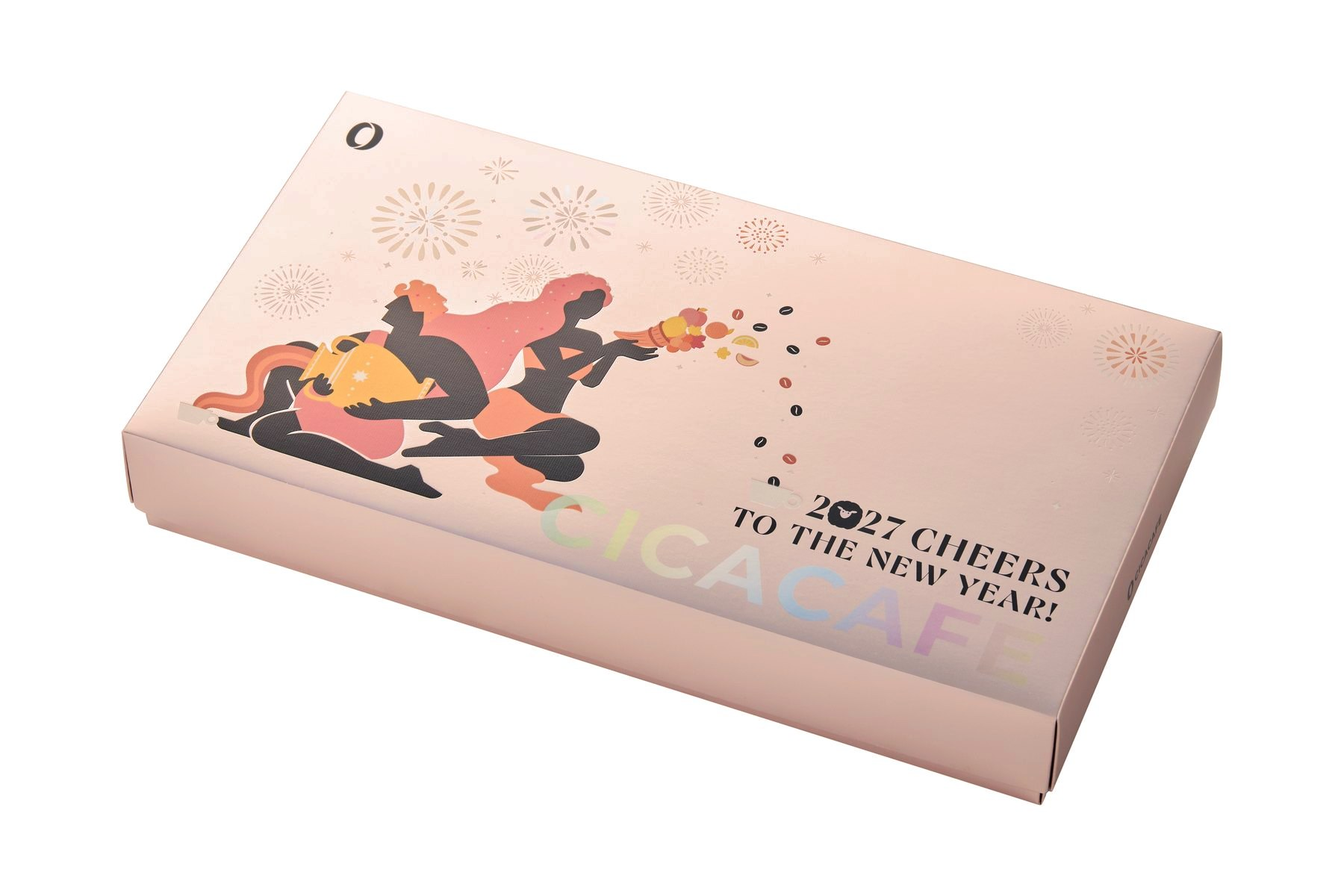
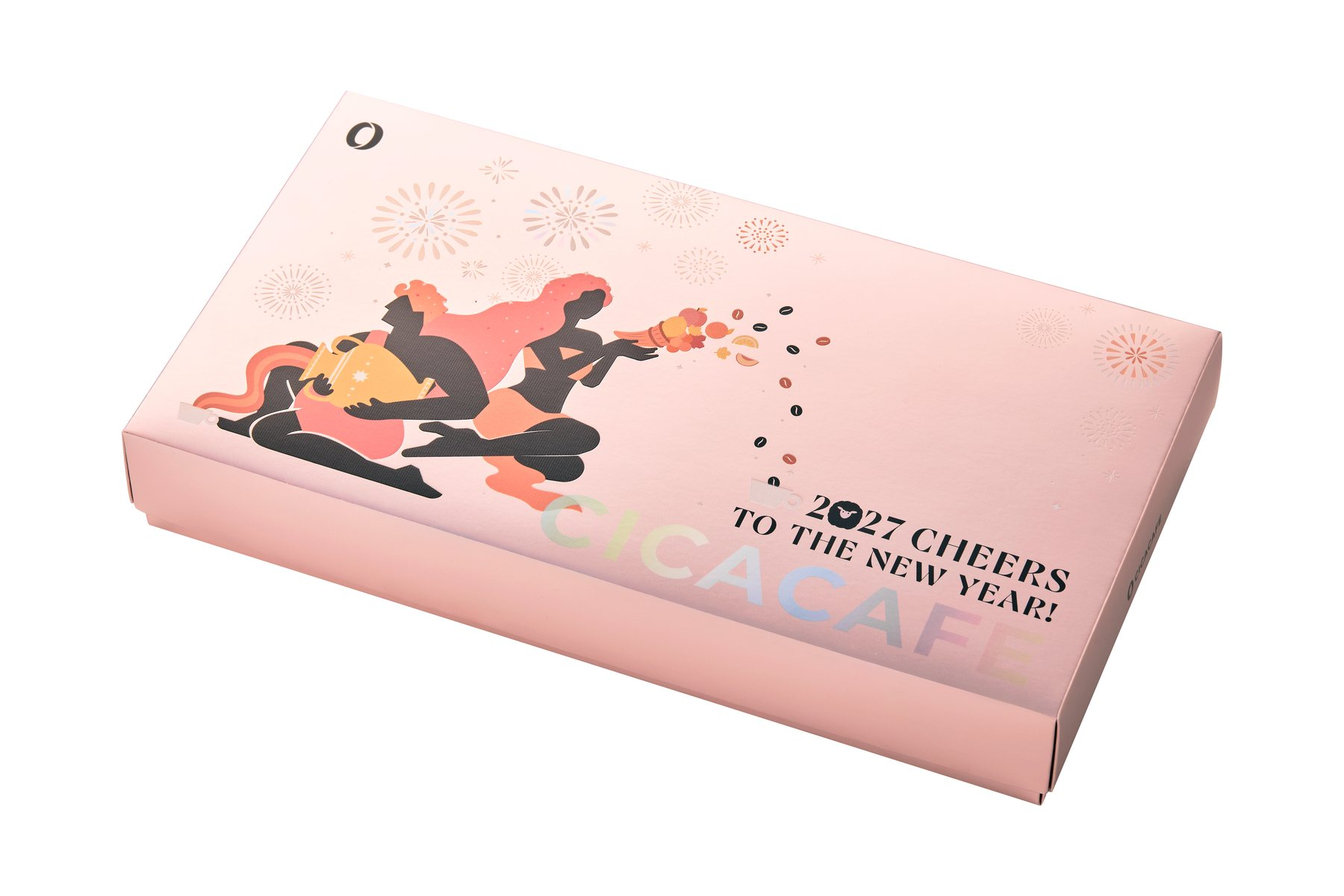
過年禮盒推薦：加入 Blueseeds、本站品牌標示、同業 nofollow、修正排版；過年頁照片換校色版

diff --git a/guide/lunar-new-year-gift-guide/index.html b/guide/lunar-new-year-gift-guide/index.html
@@ -15,15 +15,15 @@ CICACAFE ／ 選購指南：2027 過年禮盒推薦（通論清單文）
 <meta charset="utf-8">
 <meta name="viewport" content="width=device-width, initial-scale=1">
 
-<title>2027 過年禮盒推薦：送長輩、客戶、同事怎麼挑｜25 款＋各家最後訂購日｜CICACAFE</title>
-<meta name="description" content="2027 過年禮盒怎麼挑？依送長輩、送客戶、送同事、不吃甜的人、圍爐加菜五種情境，整理 25 款糕點、茶、咖啡、香氛、肉乾海味禮盒的價格與內容，附預算速查表與各家最後訂購日總表，每週更新。">
+<title>2027 過年禮盒推薦：送長輩、客戶、同事怎麼挑｜26 款＋各家最後訂購日｜CICACAFE</title>
+<meta name="description" content="2027 過年禮盒怎麼挑？依送長輩、送客戶、送同事、不吃甜的人、圍爐加菜五種情境，整理 26 款糕點、茶、咖啡、香氛、肉乾海味禮盒的價格與內容，附預算速查表與各家最後訂購日總表，每週更新。">
 <link rel="canonical" href="https://www.cicacafe.com.tw/guide/lunar-new-year-gift-guide/">
 
 <meta property="og:type" content="article">
 <meta property="og:site_name" content="CICACAFE">
 <meta property="og:locale" content="zh_TW">
-<meta property="og:title" content="2027 過年禮盒推薦：送長輩、客戶、同事怎麼挑｜25 款＋各家最後訂購日">
-<meta property="og:description" content="2027 過年禮盒怎麼挑？依送長輩、送客戶、送同事、不吃甜的人、圍爐加菜五種情境，整理 25 款糕點、茶、咖啡、香氛、肉乾海味禮盒的價格與內容，附預算速查表與各家最後訂購日總表，每週更新。">
+<meta property="og:title" content="2027 過年禮盒推薦：送長輩、客戶、同事怎麼挑｜26 款＋各家最後訂購日">
+<meta property="og:description" content="2027 過年禮盒怎麼挑？依送長輩、送客戶、送同事、不吃甜的人、圍爐加菜五種情境，整理 26 款糕點、茶、咖啡、香氛、肉乾海味禮盒的價格與內容，附預算速查表與各家最後訂購日總表，每週更新。">
 <meta property="og:url" content="https://www.cicacafe.com.tw/guide/lunar-new-year-gift-guide/">
 <meta property="og:image" content="https://www.cicacafe.com.tw/gift/lunar-new-year/img/cicacafe-2027-lunar-new-year-coffee-gift-box-og.jpg">
 <meta name="twitter:card" content="summary_large_image">
@@ -277,7 +277,7 @@ html{scrollbar-gutter:stable}
     <p class="answer">
       過年禮盒先看<b>送誰</b>：送長輩常選中式糕點或養生滋補，送客戶常選保存期長的茶禮，送同事選好分享的餅乾蛋捲，不吃甜的人可改送咖啡、香氛或保養品。
       再看<b>時間</b>：2027 年除夕是 2 月 5 日，<b>建議 1 月 20 日前下單</b>。
-      本文整理 25 款禮盒的官網價格與內容，附各家最後訂購日總表，每週更新。
+      本文整理 26 款禮盒的官網價格與內容，附各家最後訂購日總表，每週更新。
     </p>
     <div class="byline">
       <span>CICACAFE 編輯部</span>
@@ -289,25 +289,25 @@ html{scrollbar-gutter:stable}
 
   <nav class="toc" aria-label="目錄">
     <h2>本文重點</h2>
-    <ol><li><a href="#quick">先看速查表：送誰 × 預算</a></li><li><a href="#deadline">2027 各家最後訂購日總表</a></li><li><a href="#elder">送長輩</a></li><li><a href="#client">送客戶、企業大宗</a></li><li><a href="#friends">送同事、朋友</a></li><li><a href="#healthy">不吃甜、不吃肉、想送健康的人</a></li><li><a href="#feast">圍爐加菜</a></li><li><a href="#howto">過年送禮怎麼挑：四個提醒</a></li><li><a href="#faq">常見問題</a></li><li><a href="#about-data">我們怎麼挑這 25 款</a></li></ol>
+    <ol><li><a href="#quick">先看速查表：送誰 × 預算</a></li><li><a href="#deadline">2027 各家最後訂購日總表</a></li><li><a href="#elder">送長輩</a></li><li><a href="#client">送客戶、企業大宗</a></li><li><a href="#friends">送同事、朋友</a></li><li><a href="#healthy">不吃甜、不吃肉、想送健康的人</a></li><li><a href="#feast">圍爐加菜</a></li><li><a href="#howto">過年送禮怎麼挑：四個提醒</a></li><li><a href="#faq">常見問題</a></li><li><a href="#about-data">我們怎麼挑這 26 款</a></li></ol>
   </nav>
 
   <article>
-<section id="quick"><h2>先看速查表：送誰 × 預算</h2><p class="lead">先決定送誰、預算多少，再往下看對應的段落。價格為各品牌官網 2026 年 11 月 5 日標示價，單位新台幣，實際以官網為準。</p><div class="tablewrap"><table class="quick"><thead><tr><th>送誰</th><th>NT$1,000 以下</th><th>NT$1,000–2,000</th><th>NT$2,000 以上</th></tr></thead><tbody><tr><th scope="row"><a href="#elder">送長輩</a></th><td>聖保羅 593、微熱山丘 550、紅布朗 759、喜豐香1985 988</td><td>郭元益 1,880</td><td>田原香 3,100、老協珍 3,580</td></tr><tr><th scope="row"><a href="#client">送客戶、企業大宗</a></th><td>琅茶 930 起、京盛宇 990</td><td>有記 1,100、七三茶堂 1,350、琅茶 1,590、CICACAFE（本站品牌）企業價 1,000–1,280</td><td>琅茶 2,090</td></tr><tr><th scope="row"><a href="#friends">送同事、朋友</a></th><td>禮坊 595、謝謝堅果 665、卡柏蒂 720、伊莎貝爾 798（兩盒）、金格 985</td><td>—</td><td>—</td></tr><tr><th scope="row"><a href="#healthy">不吃甜、不吃肉、想送健康</a></th><td>—</td><td>茶籽堂 1,280、CICACAFE（本站品牌）1,280–1,480、CAFE!N 1,320、歐客佬 1,399、湛盧 1,700、綠藤 1,813</td><td>—</td></tr><tr><th scope="row"><a href="#feast">圍爐加菜</a></th><td>黑橋牌 740</td><td>新東陽 1,250、魚香涎 1,480 起</td><td>魚香涎較大規格</td></tr></tbody></table></div><p>表中同一品牌若有多種規格，列出最常見的價位；點左欄可跳到該段落。</p></section>
-<section id="deadline"><h2>2027 各家最後訂購日總表</h2><p class="lead">2027 年除夕是 2 月 5 日，<b id="cny-countdown">距離除夕還有幾天</b>。年前物流會提早停收，送禮最怕的是禮盒過完年才到。</p><p>截至 2026 年 11 月 5 日，本文 25 款中只有 CICACAFE（本站品牌）公告了 2027 最後訂購日；伊莎貝爾、禮坊已公告出貨或到貨時段。其他品牌公告後，我們每週更新這張表。還沒公告的，建議 <b>1 月 20 日前下單</b>，保留年前物流緩衝。</p><div class="tablewrap"><table id="deadline-table"><caption>查核日期：2026 年 11 月 5 日。依官網公告更新，未公告者每週重新查核。</caption><thead><tr><th>品牌｜禮盒</th><th>最後訂購日</th><th>最後出貨／到貨</th><th>保存方式</th><th>截止日狀態</th></tr></thead><tbody><tr data-deadline="2027-01-25"><td><a href="/gift/lunar-new-year/" rel="noopener">CICACAFE（本站品牌）｜豐饒慶賀 2027 過年禮盒</a></td><td>2027/1/25</td><td>2027/1/11 起陸續出貨，最晚 1/29</td><td>常溫</td><td>已公告</td></tr><tr data-deadline=""><td><a href="https://shop.sunnyhills.com.tw/" target="_blank" rel="noopener">微熱山丘｜鳳梨酥 10 個裝</a></td><td>未公告</td><td>未公告</td><td>常溫</td><td>未公告</td></tr><tr data-deadline=""><td><a href="https://www.saintpaul.com.tw/products/chinese-new-year-gift-box-2" target="_blank" rel="noopener">聖保羅烘焙花園｜吉祥禮盒 B（2027 春節）</a></td><td>未公告</td><td>未公告</td><td>常溫</td><td>未公告</td></tr><tr data-deadline=""><td><a href="https://store.rivon.com.tw/products/12303133" target="_blank" rel="noopener">禮坊 RIVON｜2027 春序午茶禮盒 A</a></td><td>未公告</td><td>官網提供 4 個到貨時段，最晚一段為 1/26–1/28（頁面未寫年份）</td><td>常溫</td><td>未公告</td></tr><tr data-deadline=""><td><a href="https://www.thankyounuts.com/products/2027-lunar-new-year-sheep-gift-box-3" target="_blank" rel="noopener">謝謝堅果｜2027《羊開富貴》2 罐組（素）</a></td><td>未公告</td><td>未公告</td><td>常溫</td><td>未公告</td></tr><tr data-deadline=""><td><a href="https://www.cupetit.com/products/cny-o02m" target="_blank" rel="noopener">CUPETIT 卡柏蒂｜暖橘雙奏 M 布列塔尼酥餅 × 年節限定蛋捲</a></td><td>未公告</td><td>未公告（官網：春節檔期不可指定到貨日；11/9 開賣）</td><td>常溫（25°C 以下）</td><td>未公告</td></tr><tr data-deadline=""><td><a href="https://www.blackbridge.com.tw/products/1200g-sausage-giftbox-4" target="_blank" rel="noopener">黑橋牌｜二斤香腸禮盒（原味＋蒜味）</a></td><td>未公告</td><td>未公告</td><td>冷藏</td><td>未公告</td></tr><tr data-deadline=""><td><a href="https://www.home-brown.com/Product/Detail?no=Special1218" target="_blank" rel="noopener">紅布朗｜闔家安康穀粉堅果禮盒</a></td><td>未公告</td><td>未公告</td><td>常溫</td><td>未公告</td></tr><tr data-deadline=""><td><a href="https://shop.isabellexperience.com.tw/products/61f16f701401" target="_blank" rel="noopener">伊莎貝爾｜財源滾滾春節禮盒 好禮成雙兩件組（觀光工廠限定）</a></td><td>未公告</td><td>官網：2027/1/4 起出貨，可指定到貨日</td><td>常溫</td><td>未公告</td></tr><tr data-deadline=""><td><a href="https://wolftea.com/product/2027%e6%96%b0%e5%b9%b4%e7%a6%ae%e7%9b%92/" target="_blank" rel="noopener">琅茶 Wolf Tea｜2027《神采飛揚》錦彩金繪福帖茶禮</a></td><td>未公告</td><td>未公告</td><td>常溫</td><td>未公告</td></tr><tr data-deadline=""><td><a href="https://www.king.com.tw/products/2027-cny-gift-2" target="_blank" rel="noopener">金格 KÖNIG｜春節禮盒｜雙層禮</a></td><td>未公告</td><td>未公告</td><td>常溫</td><td>未公告</td></tr><tr data-deadline=""><td><a href="https://www.sfs1985.com.tw/products/2027年『豐味』雙層金色禮盒" target="_blank" rel="noopener">喜豐香1985｜2027『豐味』雙層金色禮盒</a></td><td>未公告</td><td>未公告（官網：可指定出貨日，不可指定到貨日）</td><td>常溫</td><td>未公告</td></tr><tr data-deadline=""><td><a href="https://www.jsy-tea.com/products/perfect-blessing-teabags-tin-box-red" target="_blank" rel="noopener">京盛宇｜十全十美御守袋茶鐵盒 20 入</a></td><td>未公告</td><td>未公告</td><td>常溫</td><td>未公告</td></tr><tr data-deadline=""><td><a href="https://shop.wangtea.com.tw/product/detail/cny/wooddoor-cny-1100" target="_blank" rel="noopener">有記名茶｜木門系列 鶴歲禮盒</a></td><td>未公告</td><td>未公告（官網估計 2027 年約 1/21 前後，請向門市確認）</td><td>常溫</td><td>未公告</td></tr><tr data-deadline=""><td><a href="https://shopping.hty.com.tw/SalePage/Index/10710867" target="_blank" rel="noopener">新東陽｜綜合牛肉乾 210g × 5 包禮盒</a></td><td>未公告</td><td>未公告</td><td>常溫</td><td>未公告</td></tr><tr data-deadline=""><td><a href="https://www.chatzutang.com/products/2026print-classic-hotel-gift-set" target="_blank" rel="noopener">茶籽堂｜胭脂馬版畫 飯店經典雙入禮盒</a></td><td>未公告</td><td>未公告</td><td>常溫</td><td>未公告</td></tr><tr data-deadline=""><td><a href="https://www.cafein.com.tw/SalePage/Index/10463694" target="_blank" rel="nofollow noopener">CAFE!N 硬咖啡｜綜合濾掛咖啡禮盒（4 種配方）</a></td><td>未公告</td><td>未公告</td><td>常溫</td><td>未公告</td></tr><tr data-deadline=""><td><a href="https://www.7teahouse.com/products/tea-gift-box-pyramid-tea-bag-loose-leaf-tea" target="_blank" rel="noopener">七三茶堂｜風味色譜茶禮盒（原葉＋立體茶包）</a></td><td>未公告</td><td>未公告</td><td>常溫</td><td>未公告</td></tr><tr data-deadline=""><td><a href="https://www.oklaocoffee.net/products/drip-coffee-gift-box-44010648" target="_blank" rel="nofollow noopener">歐客佬｜藝伎盛宴 精品掛耳咖啡禮盒 20 包</a></td><td>未公告</td><td>未公告</td><td>常溫</td><td>未公告</td></tr><tr data-deadline=""><td><a href="https://www.yuxian.tw/item/406167e6a392af42d" target="_blank" rel="noopener">魚香涎｜整片琥珀烏魚子</a></td><td>未公告</td><td>未公告</td><td>依官網標示</td><td>未公告</td></tr><tr data-deadline=""><td><a href="https://shop.zhanlu.com.tw/products/jim-gates-rhc" target="_blank" rel="nofollow noopener">湛盧｜橙悅禮盒－馥刻</a></td><td>未公告</td><td>未公告</td><td>常溫</td><td>未公告</td></tr><tr data-deadline=""><td><a href="https://www.greenvines.com.tw/products/auscentic-set-88-2-body-serum-wash" target="_blank" rel="noopener">綠藤生機｜微香沐浴保養組</a></td><td>未公告</td><td>未公告</td><td>常溫</td><td>未公告</td></tr><tr data-deadline=""><td><a href="https://www.kuos.com/zh-TW/products/吉羊如益" target="_blank" rel="noopener">郭元益｜吉羊如益（三層）</a></td><td>未公告</td><td>未公告（官網：10 日內出貨，年前兩週可能延遲）</td><td>常溫</td><td>未公告</td></tr><tr data-deadline=""><td><a href="https://www.qchicken.com.tw/newyeargift" target="_blank" rel="noopener">田原香｜花開富貴滴雞精禮盒</a></td><td>未公告</td><td>未公告</td><td>常溫</td><td>未公告</td></tr><tr data-deadline=""><td><a href="https://www.lxz.com.tw/product/oec077" target="_blank" rel="noopener">老協珍｜白金雞精禮盒 9 入</a></td><td>未公告</td><td>未公告</td><td>常溫</td><td>未公告</td></tr><tr data-deadline=""><td><a href="/gift/lunar-new-year/corporate/" rel="noopener">CICACAFE（本站品牌）｜豐饒慶賀 企業春節方案</a></td><td>企業訂單另行約定</td><td>另行約定</td><td>常溫</td><td>需洽詢</td></tr></tbody></table></div><div class="note"><b>冷藏、冷凍禮盒要多留時間</b>香腸、部分海味需要冷藏配送，年前冷藏物流量大，建議比常溫禮盒再提早一週下單，並確認收件人過年前在家。</div></section>
+<section id="quick"><h2>先看速查表：送誰 × 預算</h2><p class="lead">先決定送誰、預算多少，再往下看對應的段落。價格為各品牌官網 2026 年 11 月 5 日標示價，單位新台幣，實際以官網為準。</p><div class="tablewrap"><table class="quick"><thead><tr><th>送誰</th><th>NT$1,000 以下</th><th>NT$1,000–2,000</th><th>NT$2,000 以上</th></tr></thead><tbody><tr><th scope="row"><a href="#elder">送長輩</a></th><td>聖保羅 593、微熱山丘 550、紅布朗 759、喜豐香1985 988</td><td>郭元益 1,880</td><td>田原香 3,100、老協珍 3,580</td></tr><tr><th scope="row"><a href="#client">送客戶、企業大宗</a></th><td>琅茶 930 起、京盛宇 990</td><td>有記 1,100、七三茶堂 1,350、琅茶 1,590、CICACAFE（本站品牌）企業價 1,000–1,280</td><td>琅茶 2,090</td></tr><tr><th scope="row"><a href="#friends">送同事、朋友</a></th><td>禮坊 595、謝謝堅果 665、卡柏蒂 720、伊莎貝爾 798（兩盒）、金格 985</td><td>—</td><td>—</td></tr><tr><th scope="row"><a href="#healthy">不吃甜、不吃肉、想送健康</a></th><td>—</td><td>茶籽堂 1,280、CICACAFE（本站品牌）1,280–1,480、CAFE!N 1,320、歐客佬 1,399、湛盧 1,700、綠藤 1,813、Blueseeds 1,880</td><td>—</td></tr><tr><th scope="row"><a href="#feast">圍爐加菜</a></th><td>黑橋牌 740</td><td>新東陽 1,250、魚香涎 1,480 起</td><td>魚香涎較大規格</td></tr></tbody></table></div><p>表中同一品牌若有多種規格，列出最常見的價位；點左欄可跳到該段落。</p></section>
+<section id="deadline"><h2>2027 各家最後訂購日總表</h2><p class="lead">2027 年除夕是 2 月 5 日，<b id="cny-countdown">距離除夕還有幾天</b>。年前物流會提早停收，送禮最怕的是禮盒過完年才到。</p><p>截至 2026 年 11 月 5 日，本文 26 款中只有 CICACAFE（本站品牌）公告了 2027 最後訂購日；伊莎貝爾、禮坊已公告出貨或到貨時段。其他品牌公告後，我們每週更新這張表。還沒公告的，建議 <b>1 月 20 日前下單</b>，保留年前物流緩衝。</p><div class="tablewrap"><table id="deadline-table"><caption>查核日期：2026 年 11 月 5 日。依官網公告更新，未公告者每週重新查核。</caption><thead><tr><th>品牌｜禮盒</th><th>最後訂購日</th><th>最後出貨／到貨</th><th>保存方式</th><th>截止日狀態</th></tr></thead><tbody><tr data-deadline="2027-01-25"><td><a href="/gift/lunar-new-year/" rel="noopener">CICACAFE（本站品牌）｜豐饒慶賀 2027 過年禮盒</a></td><td>2027/1/25</td><td>2027/1/11 起陸續出貨，最晚 1/29</td><td>常溫</td><td>已公告</td></tr><tr data-deadline=""><td><a href="https://shop.sunnyhills.com.tw/" target="_blank" rel="noopener">微熱山丘｜鳳梨酥 10 個裝</a></td><td>未公告</td><td>未公告</td><td>常溫</td><td>未公告</td></tr><tr data-deadline=""><td><a href="https://www.saintpaul.com.tw/products/chinese-new-year-gift-box-2" target="_blank" rel="noopener">聖保羅烘焙花園｜吉祥禮盒 B（2027 春節）</a></td><td>未公告</td><td>未公告</td><td>常溫</td><td>未公告</td></tr><tr data-deadline=""><td><a href="https://store.rivon.com.tw/products/12303133" target="_blank" rel="noopener">禮坊 RIVON｜2027 春序午茶禮盒 A</a></td><td>未公告</td><td>官網提供 4 個到貨時段，最晚一段為 1/26–1/28（頁面未寫年份）</td><td>常溫</td><td>未公告</td></tr><tr data-deadline=""><td><a href="https://www.thankyounuts.com/products/2027-lunar-new-year-sheep-gift-box-3" target="_blank" rel="noopener">謝謝堅果｜2027《羊開富貴》2 罐組（素）</a></td><td>未公告</td><td>未公告</td><td>常溫</td><td>未公告</td></tr><tr data-deadline=""><td><a href="https://www.cupetit.com/products/cny-o02m" target="_blank" rel="noopener">CUPETIT 卡柏蒂｜暖橘雙奏 M 布列塔尼酥餅 × 年節限定蛋捲</a></td><td>未公告</td><td>未公告（官網：春節檔期不可指定到貨日；11/9 開賣）</td><td>常溫（25°C 以下）</td><td>未公告</td></tr><tr data-deadline=""><td><a href="https://www.blackbridge.com.tw/products/1200g-sausage-giftbox-4" target="_blank" rel="noopener">黑橋牌｜二斤香腸禮盒（原味＋蒜味）</a></td><td>未公告</td><td>未公告</td><td>冷藏</td><td>未公告</td></tr><tr data-deadline=""><td><a href="https://www.home-brown.com/Product/Detail?no=Special1218" target="_blank" rel="noopener">紅布朗｜闔家安康穀粉堅果禮盒</a></td><td>未公告</td><td>未公告</td><td>常溫</td><td>未公告</td></tr><tr data-deadline=""><td><a href="https://shop.isabellexperience.com.tw/products/61f16f701401" target="_blank" rel="noopener">伊莎貝爾｜財源滾滾春節禮盒 好禮成雙兩件組（觀光工廠限定）</a></td><td>未公告</td><td>官網：2027/1/4 起出貨，可指定到貨日</td><td>常溫</td><td>未公告</td></tr><tr data-deadline=""><td><a href="https://wolftea.com/product/2027%e6%96%b0%e5%b9%b4%e7%a6%ae%e7%9b%92/" target="_blank" rel="noopener">琅茶 Wolf Tea｜2027《神采飛揚》錦彩金繪福帖茶禮</a></td><td>未公告</td><td>未公告</td><td>常溫</td><td>未公告</td></tr><tr data-deadline=""><td><a href="https://www.king.com.tw/products/2027-cny-gift-2" target="_blank" rel="noopener">金格 KÖNIG｜春節禮盒｜雙層禮</a></td><td>未公告</td><td>未公告</td><td>常溫</td><td>未公告</td></tr><tr data-deadline=""><td><a href="https://www.sfs1985.com.tw/products/2027年『豐味』雙層金色禮盒" target="_blank" rel="noopener">喜豐香1985｜2027『豐味』雙層金色禮盒</a></td><td>未公告</td><td>未公告（官網：可指定出貨日，不可指定到貨日）</td><td>常溫</td><td>未公告</td></tr><tr data-deadline=""><td><a href="https://www.jsy-tea.com/products/perfect-blessing-teabags-tin-box-red" target="_blank" rel="noopener">京盛宇｜十全十美御守袋茶鐵盒 20 入</a></td><td>未公告</td><td>未公告</td><td>常溫</td><td>未公告</td></tr><tr data-deadline=""><td><a href="https://shop.wangtea.com.tw/product/detail/cny/wooddoor-cny-1100" target="_blank" rel="noopener">有記名茶｜木門系列 鶴歲禮盒</a></td><td>未公告</td><td>未公告（官網估計 2027 年約 1/21 前後，請向門市確認）</td><td>常溫</td><td>未公告</td></tr><tr data-deadline=""><td><a href="https://shopping.hty.com.tw/SalePage/Index/10710867" target="_blank" rel="noopener">新東陽｜綜合牛肉乾 210g × 5 包禮盒</a></td><td>未公告</td><td>未公告</td><td>常溫</td><td>未公告</td></tr><tr data-deadline=""><td><a href="https://www.chatzutang.com/products/2026print-classic-hotel-gift-set" target="_blank" rel="noopener">茶籽堂｜胭脂馬版畫 飯店經典雙入禮盒</a></td><td>未公告</td><td>未公告</td><td>常溫</td><td>未公告</td></tr><tr data-deadline=""><td><a href="https://www.cafein.com.tw/SalePage/Index/10463694" target="_blank" rel="nofollow noopener">CAFE!N 硬咖啡｜綜合濾掛咖啡禮盒（4 種配方）</a></td><td>未公告</td><td>未公告</td><td>常溫</td><td>未公告</td></tr><tr data-deadline=""><td><a href="https://www.7teahouse.com/products/tea-gift-box-pyramid-tea-bag-loose-leaf-tea" target="_blank" rel="noopener">七三茶堂｜風味色譜茶禮盒（原葉＋立體茶包）</a></td><td>未公告</td><td>未公告</td><td>常溫</td><td>未公告</td></tr><tr data-deadline=""><td><a href="https://www.oklaocoffee.net/products/drip-coffee-gift-box-44010648" target="_blank" rel="nofollow noopener">歐客佬｜藝伎盛宴 精品掛耳咖啡禮盒 20 包</a></td><td>未公告</td><td>未公告</td><td>常溫</td><td>未公告</td></tr><tr data-deadline=""><td><a href="https://www.yuxian.tw/item/406167e6a392af42d" target="_blank" rel="noopener">魚香涎｜整片琥珀烏魚子</a></td><td>未公告</td><td>未公告</td><td>依官網標示</td><td>未公告</td></tr><tr data-deadline=""><td><a href="https://shop.zhanlu.com.tw/products/jim-gates-rhc" target="_blank" rel="nofollow noopener">湛盧｜橙悅禮盒－馥刻</a></td><td>未公告</td><td>未公告</td><td>常溫</td><td>未公告</td></tr><tr data-deadline=""><td><a href="https://www.greenvines.com.tw/products/auscentic-set-88-2-body-serum-wash" target="_blank" rel="noopener">綠藤生機｜微香沐浴保養組</a></td><td>未公告</td><td>未公告</td><td>常溫</td><td>未公告</td></tr><tr data-deadline=""><td><a href="https://www.kuos.com/zh-TW/products/吉羊如益" target="_blank" rel="noopener">郭元益｜吉羊如益（三層）</a></td><td>未公告</td><td>未公告（官網：10 日內出貨，年前兩週可能延遲）</td><td>常溫</td><td>未公告</td></tr><tr data-deadline=""><td><a href="https://www.blueseeds.com.tw/products/wealth-protection-essential-oil-gift-set-1" target="_blank" rel="noopener">Blueseeds 芙彤園｜財運守護精油禮盒 3+1 組</a></td><td>未公告</td><td>未公告</td><td>常溫</td><td>未公告</td></tr><tr data-deadline=""><td><a href="https://www.qchicken.com.tw/newyeargift" target="_blank" rel="noopener">田原香｜花開富貴滴雞精禮盒</a></td><td>未公告</td><td>未公告</td><td>常溫</td><td>未公告</td></tr><tr data-deadline=""><td><a href="https://www.lxz.com.tw/product/oec077" target="_blank" rel="noopener">老協珍｜白金雞精禮盒 9 入</a></td><td>未公告</td><td>未公告</td><td>常溫</td><td>未公告</td></tr><tr data-deadline=""><td><a href="/gift/lunar-new-year/corporate/" rel="noopener">CICACAFE（本站品牌）｜豐饒慶賀 企業春節方案</a></td><td>企業訂單另行約定</td><td>另行約定</td><td>常溫</td><td>需洽詢</td></tr></tbody></table></div><div class="note"><b>冷藏、冷凍禮盒要多留時間</b>香腸、部分海味需要冷藏配送，年前冷藏物流量大，建議比常溫禮盒再提早一週下單，並確認收件人過年前在家。</div></section>
 <section id="elder"><h2>送長輩：份量足、看得懂、不用器材</h2><p>長輩收禮重視份量和寓意，也常會轉送或拿來招待親戚。中式糕點、養生滋補是常見的選擇；長輩不愛甜點的話，可以選穀粉堅果或滴雞精。需要控制飲食的長輩，送之前先問家人，並看營養標示。</p><div class="tablewrap"><table><thead><tr><th>品牌｜禮盒</th><th>內容</th><th>官網標示價</th><th>保存</th><th>為什麼適合</th></tr></thead><tbody><tr><td><a href="https://shop.sunnyhills.com.tw/" target="_blank" rel="noopener">微熱山丘｜鳳梨酥 10 個裝</a></td><td>鳳梨酥 10 個</td><td>NT$550</td><td>45 天</td><td>知名度高的鳳梨酥，10 入份量適中</td></tr><tr><td><a href="https://www.saintpaul.com.tw/products/chinese-new-year-gift-box-2" target="_blank" rel="noopener">聖保羅烘焙花園｜吉祥禮盒 B（2027 春節）</a></td><td>招牌 Q 餅、職人手作蛋黃酥（入數官網未以文字標示）</td><td>NT$593（1/22 前 6 盒以上 87 折、16 盒以上 82 折）</td><td>官網未以文字標示</td><td>2027 款中式糕點，有多盒折扣，適合一次送多位親戚</td></tr><tr><td><a href="https://www.home-brown.com/Product/Detail?no=Special1218" target="_blank" rel="noopener">紅布朗｜闔家安康穀粉堅果禮盒</a></td><td>黑芝麻粉、蜂蜜核桃、純味腰果</td><td>NT$759（另列 NT$1,060）</td><td>官網未以文字標示</td><td>穀粉與堅果組合，適合不愛甜點的長輩</td></tr><tr><td><a href="https://www.sfs1985.com.tw/products/2027年『豐味』雙層金色禮盒" target="_blank" rel="noopener">喜豐香1985｜2027『豐味』雙層金色禮盒</a></td><td>甜糯糕 5 入、三款小點心、濾掛咖啡 3 包、清香烏龍 3 包</td><td>NT$988</td><td>官網未標示</td><td>傳統糕點加茶與咖啡，長輩和晚輩都有得吃</td></tr><tr><td><a href="https://www.kuos.com/zh-TW/products/吉羊如益" target="_blank" rel="noopener">郭元益｜吉羊如益（三層）</a></td><td>19 款中西糕點、74 入，934g，奶蛋素</td><td>NT$1,880</td><td>發貨起至少 30 天</td><td>三層、74 入，份量足，羊年主題</td></tr><tr><td><a href="https://www.qchicken.com.tw/newyeargift" target="_blank" rel="noopener">田原香｜花開富貴滴雞精禮盒</a></td><td>滴雞精 20 包（原味 Plus、無藥材各 10 包），每包約 60cc</td><td>NT$3,100（另列 NT$3,250）</td><td>常溫 12 個月</td><td>常溫保存 12 個月，不佔冰箱</td></tr><tr><td><a href="https://www.lxz.com.tw/product/oec077" target="_blank" rel="noopener">老協珍｜白金雞精禮盒 9 入</a></td><td>雞精 42ml × 9 包</td><td>NT$3,580（另列 NT$3,600）</td><td>18 個月</td><td>保存 18 個月，份量 9 入</td></tr></tbody></table></div><div class="note"><b>看保存天數</b>表中糕點類保存期約 30–60 天，滋補類 12–18 個月。過年期間收禮多的人家，可以參考保存天數挑選。</div></section>
 <section id="client"><h2>送客戶、企業大宗：體面、可客製、好報帳</h2><p>企業送禮除了禮盒本身，還要看三件事：有沒有公開的數量級距價（方便簽呈）、可不可以印企業 LOGO 或附賀卡、能不能分址寄送與開統編發票。茶禮保存期長、不分年齡，很適合大量送客戶。</p><div class="tablewrap"><table><thead><tr><th>品牌｜禮盒</th><th>內容</th><th>官網標示價</th><th>保存</th><th>為什麼適合</th></tr></thead><tbody><tr><td><a href="https://wolftea.com/product/2027%e6%96%b0%e5%b9%b4%e7%a6%ae%e7%9b%92/" target="_blank" rel="noopener">琅茶 Wolf Tea｜2027《神采飛揚》錦彩金繪福帖茶禮</a></td><td>依規格 1–3 罐茶，附金繪福帖、提袋</td><td>NT$930／1,590／2,090（三種規格）</td><td>官網未以文字標示</td><td>2027 羊年款，三種預算可選，有企業大宗洽詢</td></tr><tr><td><a href="https://www.jsy-tea.com/products/perfect-blessing-teabags-tin-box-red" target="_blank" rel="noopener">京盛宇｜十全十美御守袋茶鐵盒 20 入</a></td><td>10 款台灣茶各 2 包，鐵盒附提袋</td><td>NT$990</td><td>2 年</td><td>官網公開企業折扣：指定禮盒滿 1 萬起 95 折至 85 折</td></tr><tr><td><a href="https://shop.wangtea.com.tw/product/detail/cny/wooddoor-cny-1100" target="_blank" rel="noopener">有記名茶｜木門系列 鶴歲禮盒</a></td><td>茶葉 2 罐，每罐 140g，5 種茶種組合可選</td><td>NT$1,100（另列 NT$1,120）</td><td>官網未以文字標示</td><td>老字號茶行，送重視傳統的客戶與長輩</td></tr><tr><td><a href="/gift/lunar-new-year/corporate/" rel="noopener">CICACAFE（本站品牌）｜豐饒慶賀 企業春節方案</a></td><td>同下方「豐饒慶賀」；50 盒起可燙印企業 LOGO、客製賀卡</td><td>20–50 盒 NT$1,280；51–100 盒 1,180；101–500 盒 1,100；501 盒以上 1,000（含稅）</td><td>濾掛 1 年</td><td>官網公開數量級距價與報價單</td></tr><tr><td><a href="https://www.7teahouse.com/products/tea-gift-box-pyramid-tea-bag-loose-leaf-tea" target="_blank" rel="noopener">七三茶堂｜風味色譜茶禮盒（原葉＋立體茶包）</a></td><td>原葉茶 1 款＋立體茶包 8 入，近 30 款茶可選</td><td>NT$1,350（另列 NT$1,480）</td><td>2 年</td><td>官網有企業客製服務，可洽詢客製條件</td></tr></tbody></table></div><p>更完整的企業送禮比較，請看〈<a href="/guide/corporate-gift-guide/">企業送禮怎麼挑</a>〉。</p></section>
 <section id="friends"><h2>送同事、朋友：單價低、好分享</h2><p>送同事、朋友，預算多抓 NT$500–1,000，選品項多、可以拆開分享的禮盒。西式餅乾、蛋捲是主流；同事裡有吃素的，堅果禮盒最不會出錯。</p><div class="tablewrap"><table><thead><tr><th>品牌｜禮盒</th><th>內容</th><th>官網標示價</th><th>保存</th><th>為什麼適合</th></tr></thead><tbody><tr><td><a href="https://store.rivon.com.tw/products/12303133" target="_blank" rel="noopener">禮坊 RIVON｜2027 春序午茶禮盒 A</a></td><td>17 種中西點心、糖果，含花果茶 2 包，奶蛋素</td><td>NT$595（另列 NT$700）</td><td>60 天</td><td>單價低、品項多，辦公室分享</td></tr><tr><td><a href="https://www.thankyounuts.com/products/2027-lunar-new-year-sheep-gift-box-3" target="_blank" rel="noopener">謝謝堅果｜2027《羊開富貴》2 罐組（素）</a></td><td>每日堅果 334g＋素肉乾 220g，附提袋、心意卡</td><td>NT$665（另列 NT$700）</td><td>180 天</td><td>素食可送，官網標示 11/16 開賣</td></tr><tr><td><a href="https://www.cupetit.com/products/cny-o02m" target="_blank" rel="noopener">CUPETIT 卡柏蒂｜暖橘雙奏 M 布列塔尼酥餅 × 年節限定蛋捲</a></td><td>布列塔尼酥餅 6 入＋年節限定原味、可可蛋捲，260g，附提袋</td><td>NT$720（官網另有 12/29 前超早鳥優惠，最高 85 折）</td><td>30 天</td><td>2027 羊年款，法式酥餅加蛋捲，送年輕同事</td></tr><tr><td><a href="https://shop.isabellexperience.com.tw/products/61f16f701401" target="_blank" rel="noopener">伊莎貝爾｜財源滾滾春節禮盒 好禮成雙兩件組（觀光工廠限定）</a></td><td>每盒 7 種西點，淨重 259.2g（官網未註明為單盒或整組），手提禮盒；含酒類調味（葷）</td><td>NT$798（一組出貨 2 盒）</td><td>依收到商品標示</td><td>2027 羊年款，一組兩盒，送同事、朋友剛好</td></tr><tr><td><a href="https://www.king.com.tw/products/2027-cny-gift-2" target="_blank" rel="noopener">金格 KÖNIG｜春節禮盒｜雙層禮</a></td><td>15 種糕點，含蛋捲、格芙蕾、芝麻杏仁糖</td><td>NT$985（官網另有多盒折扣，至 1/31）</td><td>官網標示「另標示於封口處」</td><td>2027 款，雙層份量適合同事、朋友</td></tr></tbody></table></div></section>
-<section id="healthy"><h2>不吃甜、不吃肉、想送健康的人：咖啡、香氛與生活選物</h2><p>過年最常見的禮盒是糕點和肉乾。對方如果不吃甜、在控制飲食，或家裡點心已經很多，可以改送日常會用到的東西：咖啡、香氛、沐浴保養，保存期多在 1 年以上。</p><div class="note"><b>利益揭露</b>CICACAFE 是本文作者，表中標示「CICACAFE（本站品牌）」的是我們自己的禮盒。本文各表依價格由低到高排列，排列順序不代表推薦名次。</div><div class="tablewrap"><table><thead><tr><th>品牌｜禮盒</th><th>內容</th><th>官網標示價</th><th>保存</th><th>為什麼適合</th></tr></thead><tbody><tr><td><a href="https://www.chatzutang.com/products/2026print-classic-hotel-gift-set" target="_blank" rel="noopener">茶籽堂｜胭脂馬版畫 飯店經典雙入禮盒</a></td><td>洗髮露 300mL＋沐浴露 300mL，版畫禮盒</td><td>NT$1,280</td><td>3 年</td><td>不是食品，保存 3 年；目前為 2026 版畫款，2027 款待上架</td></tr><tr><td><a href="/gift/lunar-new-year/" rel="noopener">CICACAFE（本站品牌）｜豐饒慶賀 2027 過年禮盒</a></td><td>濾掛咖啡 10 包（芙蕾雅、尼修斯各 5）＋ Blueseeds 芙彤園精油 2 瓶（各 5ml）＋擴香石、風味卡、提袋</td><td>超早鳥 NT$1,280（至 1/10）；早鳥 NT$1,480（1/11–1/25）</td><td>濾掛 1 年</td><td>咖啡加香氛，不喝咖啡的家人也用得到</td></tr><tr><td><a href="https://www.cafein.com.tw/SalePage/Index/10463694" target="_blank" rel="nofollow noopener">CAFE!N 硬咖啡｜綜合濾掛咖啡禮盒（4 種配方）</a></td><td>濾掛咖啡 4 種配方各 10 包，共 40 包，每包 10g，附提袋</td><td>NT$1,320（另列 NT$1,420）</td><td>18 個月</td><td>包數多，適合每天喝咖啡、家裡人多的人</td></tr><tr><td><a href="https://www.oklaocoffee.net/products/drip-coffee-gift-box-44010648" target="_blank" rel="nofollow noopener">歐客佬｜藝伎盛宴 精品掛耳咖啡禮盒 20 包</a></td><td>掛耳咖啡 20 包，7 種藝伎</td><td>NT$1,399（另列 NT$2,500）</td><td>外包裝 18 個月</td><td>7 種藝伎，一次品飲</td></tr><tr><td><a href="https://shop.zhanlu.com.tw/products/jim-gates-rhc" target="_blank" rel="nofollow noopener">湛盧｜橙悅禮盒－馥刻</a></td><td>濾掛咖啡 20 包（兩種各 10）＋護手霜 1 條</td><td>NT$1,700（另列 NT$2,565）</td><td>官網標示「標示於內包裝上」</td><td>咖啡加護手霜，送喜歡保養的人</td></tr><tr><td><a href="https://www.greenvines.com.tw/products/auscentic-set-88-2-body-serum-wash" target="_blank" rel="noopener">綠藤生機｜微香沐浴保養組</a></td><td>護膚蜜 100ml＋微香沐浴蜜 350ml，香味可選；商品頁未寫禮盒包裝</td><td>NT$1,813（另列 NT$2,060）</td><td>製造日起 3 年</td><td>不是食品，香味可選</td></tr></tbody></table></div><p>只想比較咖啡禮盒？請看〈<a href="/guide/lunar-new-year-coffee-gift-box/">2027 過年咖啡禮盒推薦</a>〉，有咖啡禮盒的內容、價格與企業訂購條件對照。</p></section>
+<section id="healthy"><h2>不吃甜、不吃肉、想送健康的人：咖啡、香氛與生活選物</h2><p>過年最常見的禮盒是糕點和肉乾。對方如果不吃甜、在控制飲食，或家裡點心已經很多，可以改送日常會用到的東西：咖啡、香氛、沐浴保養，保存期多在 1 年以上。</p><div class="note"><b>利益揭露</b>CICACAFE 是本文作者，表中標示「CICACAFE（本站品牌）」的是我們自己的禮盒；Blueseeds 芙彤園是豐饒慶賀的合作品牌（精油與擴香石）。本文各表依價格由低到高排列，排列順序不代表推薦名次。</div><div class="tablewrap"><table><thead><tr><th>品牌｜禮盒</th><th>內容</th><th>官網標示價</th><th>保存</th><th>為什麼適合</th></tr></thead><tbody><tr><td><a href="https://www.chatzutang.com/products/2026print-classic-hotel-gift-set" target="_blank" rel="noopener">茶籽堂｜胭脂馬版畫 飯店經典雙入禮盒</a></td><td>洗髮露 300mL＋沐浴露 300mL，版畫禮盒</td><td>NT$1,280</td><td>3 年</td><td>不是食品，保存 3 年；目前為 2026 版畫款，2027 款待上架</td></tr><tr><td><a href="/gift/lunar-new-year/" rel="noopener">CICACAFE（本站品牌）｜豐饒慶賀 2027 過年禮盒</a></td><td>濾掛咖啡 10 包（芙蕾雅、尼修斯各 5）＋ Blueseeds 芙彤園精油 2 瓶（各 5ml）＋擴香石、風味卡、提袋</td><td>超早鳥 NT$1,280（至 1/10）；早鳥 NT$1,480（1/11–1/25）</td><td>濾掛 1 年</td><td>咖啡加香氛，不喝咖啡的家人也用得到</td></tr><tr><td><a href="https://www.cafein.com.tw/SalePage/Index/10463694" target="_blank" rel="nofollow noopener">CAFE!N 硬咖啡｜綜合濾掛咖啡禮盒（4 種配方）</a></td><td>濾掛咖啡 4 種配方各 10 包，共 40 包，每包 10g，附提袋</td><td>NT$1,320（另列 NT$1,420）</td><td>18 個月</td><td>包數多，適合每天喝咖啡、家裡人多的人</td></tr><tr><td><a href="https://www.oklaocoffee.net/products/drip-coffee-gift-box-44010648" target="_blank" rel="nofollow noopener">歐客佬｜藝伎盛宴 精品掛耳咖啡禮盒 20 包</a></td><td>掛耳咖啡 20 包，7 種藝伎</td><td>NT$1,399（另列 NT$2,500）</td><td>外包裝 18 個月</td><td>7 種藝伎，一次品飲</td></tr><tr><td><a href="https://shop.zhanlu.com.tw/products/jim-gates-rhc" target="_blank" rel="nofollow noopener">湛盧｜橙悅禮盒－馥刻</a></td><td>濾掛咖啡 20 包（兩種各 10）＋護手霜 1 條</td><td>NT$1,700（另列 NT$2,565）</td><td>官網標示「標示於內包裝上」</td><td>咖啡加護手霜，送喜歡保養的人</td></tr><tr><td><a href="https://www.greenvines.com.tw/products/auscentic-set-88-2-body-serum-wash" target="_blank" rel="noopener">綠藤生機｜微香沐浴保養組</a></td><td>護膚蜜 100ml＋微香沐浴蜜 350ml，香味可選；商品頁未寫禮盒包裝</td><td>NT$1,813（另列 NT$2,060）</td><td>製造日起 3 年</td><td>不是食品，香味可選</td></tr><tr><td><a href="https://www.blueseeds.com.tw/products/wealth-protection-essential-oil-gift-set-1" target="_blank" rel="noopener">Blueseeds 芙彤園｜財運守護精油禮盒 3+1 組</a></td><td>財富滾珠精油 2ml × 2＋虎眼石、黃晶小晶瓶 1 個，手工木盒</td><td>NT$1,880</td><td>官網未以文字標示</td><td>招財主題，木盒包裝；B 型企業品牌（豐饒慶賀的合作品牌）</td></tr></tbody></table></div><p>只想比較咖啡禮盒？請看〈<a href="/guide/lunar-new-year-coffee-gift-box/">2027 過年咖啡禮盒推薦</a>〉，有咖啡禮盒的內容、價格與企業訂購條件對照。</p></section>
 <section id="feast"><h2>圍爐加菜：肉乾、香腸、烏魚子</h2><p>送給會在家圍爐、親戚多的家庭，肉乾、香腸、烏魚子可以直接上桌。注意冷藏品的配送時間，以及對方冰箱還有沒有空間。</p><div class="tablewrap"><table><thead><tr><th>品牌｜禮盒</th><th>內容</th><th>官網標示價</th><th>保存</th><th>為什麼適合</th></tr></thead><tbody><tr><td><a href="https://www.blackbridge.com.tw/products/1200g-sausage-giftbox-4" target="_blank" rel="noopener">黑橋牌｜二斤香腸禮盒（原味＋蒜味）</a></td><td>香腸 1,200g，真空包裝</td><td>NT$740</td><td>冷藏 70 天（官網：收到時至少剩 35 天）</td><td>圍爐加菜；冷藏配送，要確認對方在家收貨</td></tr><tr><td><a href="https://shopping.hty.com.tw/SalePage/Index/10710867" target="_blank" rel="noopener">新東陽｜綜合牛肉乾 210g × 5 包禮盒</a></td><td>牛肉乾 5 種口味，各 210g</td><td>NT$1,250（另列 NT$1,475）</td><td>原味 180 天</td><td>過年配茶、配酒都適合，份量足</td></tr><tr><td><a href="https://www.yuxian.tw/item/406167e6a392af42d" target="_blank" rel="noopener">魚香涎｜整片琥珀烏魚子</a></td><td>整片烏魚子，三兩半至八兩可選</td><td>NT$1,480 起（三兩半；另有至八兩規格）</td><td>官網未以文字標示</td><td>三兩半到八兩多種規格，可依預算選</td></tr></tbody></table></div></section>
-<section id="howto"><h2>過年送禮怎麼挑：四個提醒</h2><ol class="traps"><li><div><b>避開諧音禁忌</b><span>台灣習俗上，時鐘（送終）、傘（散）、梨（離）、剪刀刀具（一刀兩斷）較少拿來當過年禮物；鞋子、手帕在部分長輩眼中也不吉利。不確定時，選食品或日常消耗品比較不會出錯。</span></div></li><li><div><b>看保存天數，不只看包裝</b><span>過年期間對方可能同時收到好幾盒禮盒。送給家裡人少的長輩，可以參考保存天數與份量挑選。</span></div></li><li><div><b>算好物流時間</b><span>2027 除夕是 2/5。常溫禮盒建議 1/20 前下單，冷藏品再提早一週；要指定到貨日的，先確認品牌是否開放（部分品牌春節檔期不接受指定到貨）。</span></div></li><li><div><b>早買通常比較划算</b><span>本文 25 款中，至少 5 款官網標示早鳥價或多盒折扣（卡柏蒂、金格、聖保羅、京盛宇、CICACAFE），熱門款也可能售完。企業大量訂購建議 12 月中前詢價。</span></div></li></ol></section>
-<section id="faq"><h2>常見問題</h2><div class="faq"><details open><summary>過年禮盒送什麼比較不會出錯？</summary><div class="a"><p>先看送誰：送長輩常選中式糕點或養生滋補，送客戶常選保存期長的茶禮，送同事選品項多、好分享的餅乾蛋捲，對方不吃甜時可改送咖啡、香氛或保養品。各品類的保存天數、份量不同，可依對方家裡人數挑選。</p></div></details><details><summary>過年禮盒預算大概多少？</summary><div class="a"><p>依本文整理的 25 款官網標示價，送同事、朋友多在 NT$500–1,000；送長輩從 NT$550 的糕點到 NT$3,000 以上的滋補禮盒都有；送客戶的茶禮多在 NT$900–2,000。企業大量訂購可詢問數量級距價。</p></div></details><details><summary>2027 過年禮盒最晚什麼時候要買？</summary><div class="a"><p>2027 年除夕是 2 月 5 日。各品牌截止日不同，截至 2026 年 11 月 5 日多數品牌尚未公告；尚未公告的建議 1 月 20 日前下單，冷藏禮盒再提早一週。本文的截止日總表會每週更新。</p></div></details><details><summary>送長輩過年禮盒選什麼？</summary><div class="a"><p>選份量足、寓意好、不需要器材的禮盒，例如中式糕點、滴雞精、雞精、穀粉堅果。需要控制飲食的長輩，送之前先問家人，並看營養標示。</p></div></details><details><summary>不吃甜、不吃肉的人過年要送什麼？</summary><div class="a"><p>可以考慮咖啡、茶、香氛或沐浴保養禮盒，這類禮盒保存期多在 1 年以上。</p></div></details><details><summary>企業過年送客戶禮盒要注意什麼？</summary><div class="a"><p>確認四件事：是否有公開的數量級距價、可否印企業 LOGO 或附賀卡與最低數量、能否分址寄送、能否開統編發票，以及企業訂單的截止日。建議 12 月中前詢價。</p></div></details><details><summary>過年送禮有哪些禁忌？</summary><div class="a"><p>台灣習俗上，時鐘（送終）、傘（散）、梨（離）、剪刀刀具較少拿來當過年禮物，鞋子、手帕在部分長輩眼中也不吉利。食品、茶、咖啡等日常消耗品最不容易踩雷。</p></div></details><details><summary>這篇文章的禮盒是怎麼挑的？</summary><div class="a"><p>我們挑選有官方網站或官方商店可直接購買、價格與內容公開、涵蓋不同預算與送禮對象的禮盒，資料皆取自品牌官網並標示查核日期。CICACAFE 是本文作者，文中「豐饒慶賀」是自家禮盒；排列順序不代表推薦名次。</p></div></details></div></section>
-<section id="about-data"><h2>我們怎麼挑這 25 款</h2>
+<section id="howto"><h2>過年送禮怎麼挑：四個提醒</h2><ol class="traps"><li><div><b>避開諧音禁忌</b><span>台灣習俗上，時鐘（送終）、傘（散）、梨（離）、剪刀刀具（一刀兩斷）較少拿來當過年禮物；鞋子、手帕在部分長輩眼中也不吉利。不確定時，選食品或日常消耗品比較不會出錯。</span></div></li><li><div><b>看保存天數，不只看包裝</b><span>過年期間對方可能同時收到好幾盒禮盒。送給家裡人少的長輩，可以參考保存天數與份量挑選。</span></div></li><li><div><b>算好物流時間</b><span>2027 除夕是 2/5。常溫禮盒建議 1/20 前下單，冷藏品再提早一週；要指定到貨日的，先確認品牌是否開放（部分品牌春節檔期不接受指定到貨）。</span></div></li><li><div><b>早買通常比較划算</b><span>本文 26 款中，至少 5 款官網標示早鳥價或多盒折扣（卡柏蒂、金格、聖保羅、京盛宇、CICACAFE），熱門款也可能售完。企業大量訂購建議 12 月中前詢價。</span></div></li></ol></section>
+<section id="faq"><h2>常見問題</h2><div class="faq"><details open><summary>過年禮盒送什麼比較不會出錯？</summary><div class="a"><p>先看送誰：送長輩常選中式糕點或養生滋補，送客戶常選保存期長的茶禮，送同事選品項多、好分享的餅乾蛋捲，對方不吃甜時可改送咖啡、香氛或保養品。各品類的保存天數、份量不同，可依對方家裡人數挑選。</p></div></details><details><summary>過年禮盒預算大概多少？</summary><div class="a"><p>依本文整理的 26 款官網標示價，送同事、朋友多在 NT$500–1,000；送長輩從 NT$550 的糕點到 NT$3,000 以上的滋補禮盒都有；送客戶的茶禮多在 NT$900–2,000。企業大量訂購可詢問數量級距價。</p></div></details><details><summary>2027 過年禮盒最晚什麼時候要買？</summary><div class="a"><p>2027 年除夕是 2 月 5 日。各品牌截止日不同，截至 2026 年 11 月 5 日多數品牌尚未公告；尚未公告的建議 1 月 20 日前下單，冷藏禮盒再提早一週。本文的截止日總表會每週更新。</p></div></details><details><summary>送長輩過年禮盒選什麼？</summary><div class="a"><p>選份量足、寓意好、不需要器材的禮盒，例如中式糕點、滴雞精、雞精、穀粉堅果。需要控制飲食的長輩，送之前先問家人，並看營養標示。</p></div></details><details><summary>不吃甜、不吃肉的人過年要送什麼？</summary><div class="a"><p>可以考慮咖啡、茶、香氛或沐浴保養禮盒，這類禮盒保存期多在 1 年以上。</p></div></details><details><summary>企業過年送客戶禮盒要注意什麼？</summary><div class="a"><p>確認四件事：是否有公開的數量級距價、可否印企業 LOGO 或附賀卡與最低數量、能否分址寄送、能否開統編發票，以及企業訂單的截止日。建議 12 月中前詢價。</p></div></details><details><summary>過年送禮有哪些禁忌？</summary><div class="a"><p>台灣習俗上，時鐘（送終）、傘（散）、梨（離）、剪刀刀具較少拿來當過年禮物，鞋子、手帕在部分長輩眼中也不吉利。食品、茶、咖啡等日常消耗品最不容易踩雷。</p></div></details><details><summary>這篇文章的禮盒是怎麼挑的？</summary><div class="a"><p>我們挑選有官方網站或官方商店可直接購買、價格與內容公開、涵蓋不同預算與送禮對象的禮盒，資料皆取自品牌官網並標示查核日期。CICACAFE 是本文作者，文中「豐饒慶賀」是自家禮盒；排列順序不代表推薦名次。</p></div></details></div></section>
+<section id="about-data"><h2>我們怎麼挑這 26 款</h2>
 <p><b>挑選標準：</b>有品牌官網或官方網路商店可直接購買；價格、內容物公開標示；整體涵蓋 NT$500 到 NT$3,500 的預算、五種送禮對象，以及糕點、茶、咖啡、香氛、養生、肉乾海味等品類。優先收錄已上架的 2027 羊年款；尚未上架的品牌，暫列官網目前在售的年節款或常態款，並在表中註明。</p>
 <p><b>資料來源：</b>所有價格、內容物、保存期限與截止日，皆取自各品牌官網於 2026 年 11 月 5 日的公開頁面，並附連結供查證。「另列」為官網頁面同時顯示的第二個價格，官網未標示是原價或活動價。官網沒有以文字標示的資訊，我們寫「官網未以文字標示」，不自行推估。</p>
-<p><b>利益揭露：</b>本文由 CICACAFE 編輯部整理。CICACAFE 是表中品牌之一（「豐饒慶賀」過年禮盒與企業春節方案）。本文未向任何品牌收取費用，所有表格的排列順序都不代表推薦名次。</p>
+<p><b>利益揭露：</b>本文由 CICACAFE 編輯部整理。CICACAFE 是表中品牌之一（「豐饒慶賀」過年禮盒與企業春節方案）；表中的 Blueseeds 芙彤園是豐饒慶賀的合作品牌。本文未向任何品牌收取費用，所有表格的排列順序都不代表推薦名次。</p>
 <p><b>更新與更正：</b>過年檔期期間（至 2027 年 1 月底），我們每週查核一次各品牌公告，更新截止日總表與「最後更新」日期。各品牌商品、價格與出貨條件可能隨時調整，實際內容以各品牌官網與訂購當下公告為準。若您是品牌方並發現資料有誤或已更新，請來信 <a href="mailto:service@cica.com.tw?subject=%E9%81%8E%E5%B9%B4%E7%A6%AE%E7%9B%92%E6%8E%A8%E8%96%A6%E6%96%87%E7%AB%A0%E6%9B%B4%E6%AD%A3">service@cica.com.tw</a>，我們會在 3 個工作天內處理。</p>
-<p><b>更新紀錄：</b>2026-11-05 首次發布。</p>
+<p><b>更新紀錄：</b>2026-11-05 首次發布；同日加入 Blueseeds 芙彤園。</p>
 <p><b>排列方式：</b>各表依官網標示價由低到高排列，截止日總表依公告狀態再依價格排列，都不代表推薦名次。</p>
 </section>
   </article>
@@ -394,7 +394,7 @@ html{scrollbar-gutter:stable}
 
      驗證：https://search.google.com/test/rich-results
      ================================================================== -->
-<script type="application/ld+json">{"@context":"https://schema.org","@graph":[{"@type":"Organization","@id":"https://www.cicacafe.com.tw/#organization","name":"CICACAFE","alternateName":"自家股份有限公司","url":"https://www.cicacafe.com.tw/","logo":"https://www.cicacafe.com.tw/img/cicacafe-logo.png","foundingDate":"1990"},{"@type":"BreadcrumbList","@id":"https://www.cicacafe.com.tw/guide/lunar-new-year-gift-guide/#breadcrumb","itemListElement":[{"@type":"ListItem","position":1,"name":"首頁","item":"https://www.cicacafe.com.tw/"},{"@type":"ListItem","position":2,"name":"風味指南","item":"https://www.cicacafe.com.tw/guide/"},{"@type":"ListItem","position":3,"name":"送禮","item":"https://www.cicacafe.com.tw/guide/gifting/"},{"@type":"ListItem","position":4,"name":"2027 過年禮盒推薦","item":"https://www.cicacafe.com.tw/guide/lunar-new-year-gift-guide/"}]},{"@type":"Article","@id":"https://www.cicacafe.com.tw/guide/lunar-new-year-gift-guide/#article","headline":"2027 過年禮盒推薦：送長輩、客戶、同事怎麼挑｜25 款＋各家最後訂購日","description":"2027 過年禮盒怎麼挑？依送長輩、送客戶、送同事、不吃甜的人、圍爐加菜五種情境，整理 25 款糕點、茶、咖啡、香氛、肉乾海味禮盒的價格與內容，附預算速查表與各家最後訂購日總表，每週更新。","inLanguage":"zh-Hant-TW","datePublished":"2026-11-05","dateModified":"2026-11-05","author":{"@type":"Organization","name":"CICACAFE 編輯部","url":"https://www.cicacafe.com.tw/"},"publisher":{"@id":"https://www.cicacafe.com.tw/#organization"},"mainEntityOfPage":"https://www.cicacafe.com.tw/guide/lunar-new-year-gift-guide/","image":"https://www.cicacafe.com.tw/gift/lunar-new-year/img/cicacafe-2027-lunar-new-year-coffee-gift-box-og.jpg","about":["過年禮盒","年節禮盒","春節禮盒","過年伴手禮"]},{"@type":"FAQPage","@id":"https://www.cicacafe.com.tw/guide/lunar-new-year-gift-guide/#faq","mainEntity":[{"@type":"Question","name":"過年禮盒送什麼比較不會出錯？","acceptedAnswer":{"@type":"Answer","text":"先看送誰：送長輩常選中式糕點或養生滋補，送客戶常選保存期長的茶禮，送同事選品項多、好分享的餅乾蛋捲，對方不吃甜時可改送咖啡、香氛或保養品。各品類的保存天數、份量不同，可依對方家裡人數挑選。"}},{"@type":"Question","name":"過年禮盒預算大概多少？","acceptedAnswer":{"@type":"Answer","text":"依本文整理的 25 款官網標示價，送同事、朋友多在 NT$500–1,000；送長輩從 NT$550 的糕點到 NT$3,000 以上的滋補禮盒都有；送客戶的茶禮多在 NT$900–2,000。企業大量訂購可詢問數量級距價。"}},{"@type":"Question","name":"2027 過年禮盒最晚什麼時候要買？","acceptedAnswer":{"@type":"Answer","text":"2027 年除夕是 2 月 5 日。各品牌截止日不同，截至 2026 年 11 月 5 日多數品牌尚未公告；尚未公告的建議 1 月 20 日前下單，冷藏禮盒再提早一週。本文的截止日總表會每週更新。"}},{"@type":"Question","name":"送長輩過年禮盒選什麼？","acceptedAnswer":{"@type":"Answer","text":"選份量足、寓意好、不需要器材的禮盒，例如中式糕點、滴雞精、雞精、穀粉堅果。需要控制飲食的長輩，送之前先問家人，並看營養標示。"}},{"@type":"Question","name":"不吃甜、不吃肉的人過年要送什麼？","acceptedAnswer":{"@type":"Answer","text":"可以考慮咖啡、茶、香氛或沐浴保養禮盒，這類禮盒保存期多在 1 年以上。"}},{"@type":"Question","name":"企業過年送客戶禮盒要注意什麼？","acceptedAnswer":{"@type":"Answer","text":"確認四件事：是否有公開的數量級距價、可否印企業 LOGO 或附賀卡與最低數量、能否分址寄送、能否開統編發票，以及企業訂單的截止日。建議 12 月中前詢價。"}},{"@type":"Question","name":"過年送禮有哪些禁忌？","acceptedAnswer":{"@type":"Answer","text":"台灣習俗上，時鐘（送終）、傘（散）、梨（離）、剪刀刀具較少拿來當過年禮物，鞋子、手帕在部分長輩眼中也不吉利。食品、茶、咖啡等日常消耗品最不容易踩雷。"}},{"@type":"Question","name":"這篇文章的禮盒是怎麼挑的？","acceptedAnswer":{"@type":"Answer","text":"我們挑選有官方網站或官方商店可直接購買、價格與內容公開、涵蓋不同預算與送禮對象的禮盒，資料皆取自品牌官網並標示查核日期。CICACAFE 是本文作者，文中「豐饒慶賀」是自家禮盒；排列順序不代表推薦名次。"}}]}]}</script>
+<script type="application/ld+json">{"@context":"https://schema.org","@graph":[{"@type":"Organization","@id":"https://www.cicacafe.com.tw/#organization","name":"CICACAFE","alternateName":"自家股份有限公司","url":"https://www.cicacafe.com.tw/","logo":"https://www.cicacafe.com.tw/img/cicacafe-logo.png","foundingDate":"1990"},{"@type":"BreadcrumbList","@id":"https://www.cicacafe.com.tw/guide/lunar-new-year-gift-guide/#breadcrumb","itemListElement":[{"@type":"ListItem","position":1,"name":"首頁","item":"https://www.cicacafe.com.tw/"},{"@type":"ListItem","position":2,"name":"風味指南","item":"https://www.cicacafe.com.tw/guide/"},{"@type":"ListItem","position":3,"name":"送禮","item":"https://www.cicacafe.com.tw/guide/gifting/"},{"@type":"ListItem","position":4,"name":"2027 過年禮盒推薦","item":"https://www.cicacafe.com.tw/guide/lunar-new-year-gift-guide/"}]},{"@type":"Article","@id":"https://www.cicacafe.com.tw/guide/lunar-new-year-gift-guide/#article","headline":"2027 過年禮盒推薦：送長輩、客戶、同事怎麼挑｜26 款＋各家最後訂購日","description":"2027 過年禮盒怎麼挑？依送長輩、送客戶、送同事、不吃甜的人、圍爐加菜五種情境，整理 26 款糕點、茶、咖啡、香氛、肉乾海味禮盒的價格與內容，附預算速查表與各家最後訂購日總表，每週更新。","inLanguage":"zh-Hant-TW","datePublished":"2026-11-05","dateModified":"2026-11-05","author":{"@type":"Organization","name":"CICACAFE 編輯部","url":"https://www.cicacafe.com.tw/"},"publisher":{"@id":"https://www.cicacafe.com.tw/#organization"},"mainEntityOfPage":"https://www.cicacafe.com.tw/guide/lunar-new-year-gift-guide/","image":"https://www.cicacafe.com.tw/gift/lunar-new-year/img/cicacafe-2027-lunar-new-year-coffee-gift-box-og.jpg","about":["過年禮盒","年節禮盒","春節禮盒","過年伴手禮"]},{"@type":"FAQPage","@id":"https://www.cicacafe.com.tw/guide/lunar-new-year-gift-guide/#faq","mainEntity":[{"@type":"Question","name":"過年禮盒送什麼比較不會出錯？","acceptedAnswer":{"@type":"Answer","text":"先看送誰：送長輩常選中式糕點或養生滋補，送客戶常選保存期長的茶禮，送同事選品項多、好分享的餅乾蛋捲，對方不吃甜時可改送咖啡、香氛或保養品。各品類的保存天數、份量不同，可依對方家裡人數挑選。"}},{"@type":"Question","name":"過年禮盒預算大概多少？","acceptedAnswer":{"@type":"Answer","text":"依本文整理的 26 款官網標示價，送同事、朋友多在 NT$500–1,000；送長輩從 NT$550 的糕點到 NT$3,000 以上的滋補禮盒都有；送客戶的茶禮多在 NT$900–2,000。企業大量訂購可詢問數量級距價。"}},{"@type":"Question","name":"2027 過年禮盒最晚什麼時候要買？","acceptedAnswer":{"@type":"Answer","text":"2027 年除夕是 2 月 5 日。各品牌截止日不同，截至 2026 年 11 月 5 日多數品牌尚未公告；尚未公告的建議 1 月 20 日前下單，冷藏禮盒再提早一週。本文的截止日總表會每週更新。"}},{"@type":"Question","name":"送長輩過年禮盒選什麼？","acceptedAnswer":{"@type":"Answer","text":"選份量足、寓意好、不需要器材的禮盒，例如中式糕點、滴雞精、雞精、穀粉堅果。需要控制飲食的長輩，送之前先問家人，並看營養標示。"}},{"@type":"Question","name":"不吃甜、不吃肉的人過年要送什麼？","acceptedAnswer":{"@type":"Answer","text":"可以考慮咖啡、茶、香氛或沐浴保養禮盒，這類禮盒保存期多在 1 年以上。"}},{"@type":"Question","name":"企業過年送客戶禮盒要注意什麼？","acceptedAnswer":{"@type":"Answer","text":"確認四件事：是否有公開的數量級距價、可否印企業 LOGO 或附賀卡與最低數量、能否分址寄送、能否開統編發票，以及企業訂單的截止日。建議 12 月中前詢價。"}},{"@type":"Question","name":"過年送禮有哪些禁忌？","acceptedAnswer":{"@type":"Answer","text":"台灣習俗上，時鐘（送終）、傘（散）、梨（離）、剪刀刀具較少拿來當過年禮物，鞋子、手帕在部分長輩眼中也不吉利。食品、茶、咖啡等日常消耗品最不容易踩雷。"}},{"@type":"Question","name":"這篇文章的禮盒是怎麼挑的？","acceptedAnswer":{"@type":"Answer","text":"我們挑選有官方網站或官方商店可直接購買、價格與內容公開、涵蓋不同預算與送禮對象的禮盒，資料皆取自品牌官網並標示查核日期。CICACAFE 是本文作者，文中「豐饒慶賀」是自家禮盒；排列順序不代表推薦名次。"}}]}]}</script>
 
 <script>
 (function(){if(!("IntersectionObserver" in window))return;var io=new IntersectionObserver(function(es){es.forEach(function(e){if(e.isIntersecting){e.target.classList.add("in-view");io.unobserve(e.target);}})},{threshold:.2});document.querySelectorAll(".hero").forEach(function(el){io.observe(el);});})();

diff --git a/guide/gifting/index.html b/guide/gifting/index.html
@@ -175,7 +175,7 @@ html{scrollbar-gutter:stable}
     <a class="art live" href="/guide/lunar-new-year-gift-guide/">
       <div class="tags"><span class="tag">送禮 · 過年</span></div>
       <h3>2027 過年禮盒推薦：送長輩、客戶、同事怎麼挑</h3>
-      <p>糕點、茶、咖啡、香氛、肉乾海味 25 款，附預算速查表與各家最後訂購日總表，每週更新。</p>
+      <p>糕點、茶、咖啡、香氛、肉乾海味 26 款，附預算速查表與各家最後訂購日總表，每週更新。</p>
       <span class="go">讀文章 →</span>
     </a>
     <a class="art live" href="/guide/lunar-new-year-coffee-gift-box/">

diff --git a/guide/index.html b/guide/index.html
@@ -255,7 +255,7 @@ html{scrollbar-gutter:stable}
     <a class="art live" href="/guide/lunar-new-year-gift-guide/">
       <div class="tags"><span class="tag">送禮 · 過年</span></div>
       <h3>2027 過年禮盒推薦</h3>
-      <p>送長輩、客戶、同事怎麼挑，25 款依預算整理，附各家最後訂購日總表。</p>
+      <p>送長輩、客戶、同事怎麼挑，26 款依預算整理，附各家最後訂購日總表。</p>
       <span class="go">讀文章 →</span>
     </a>
     <a class="art live" href="/guide/lunar-new-year-coffee-gift-box/">
